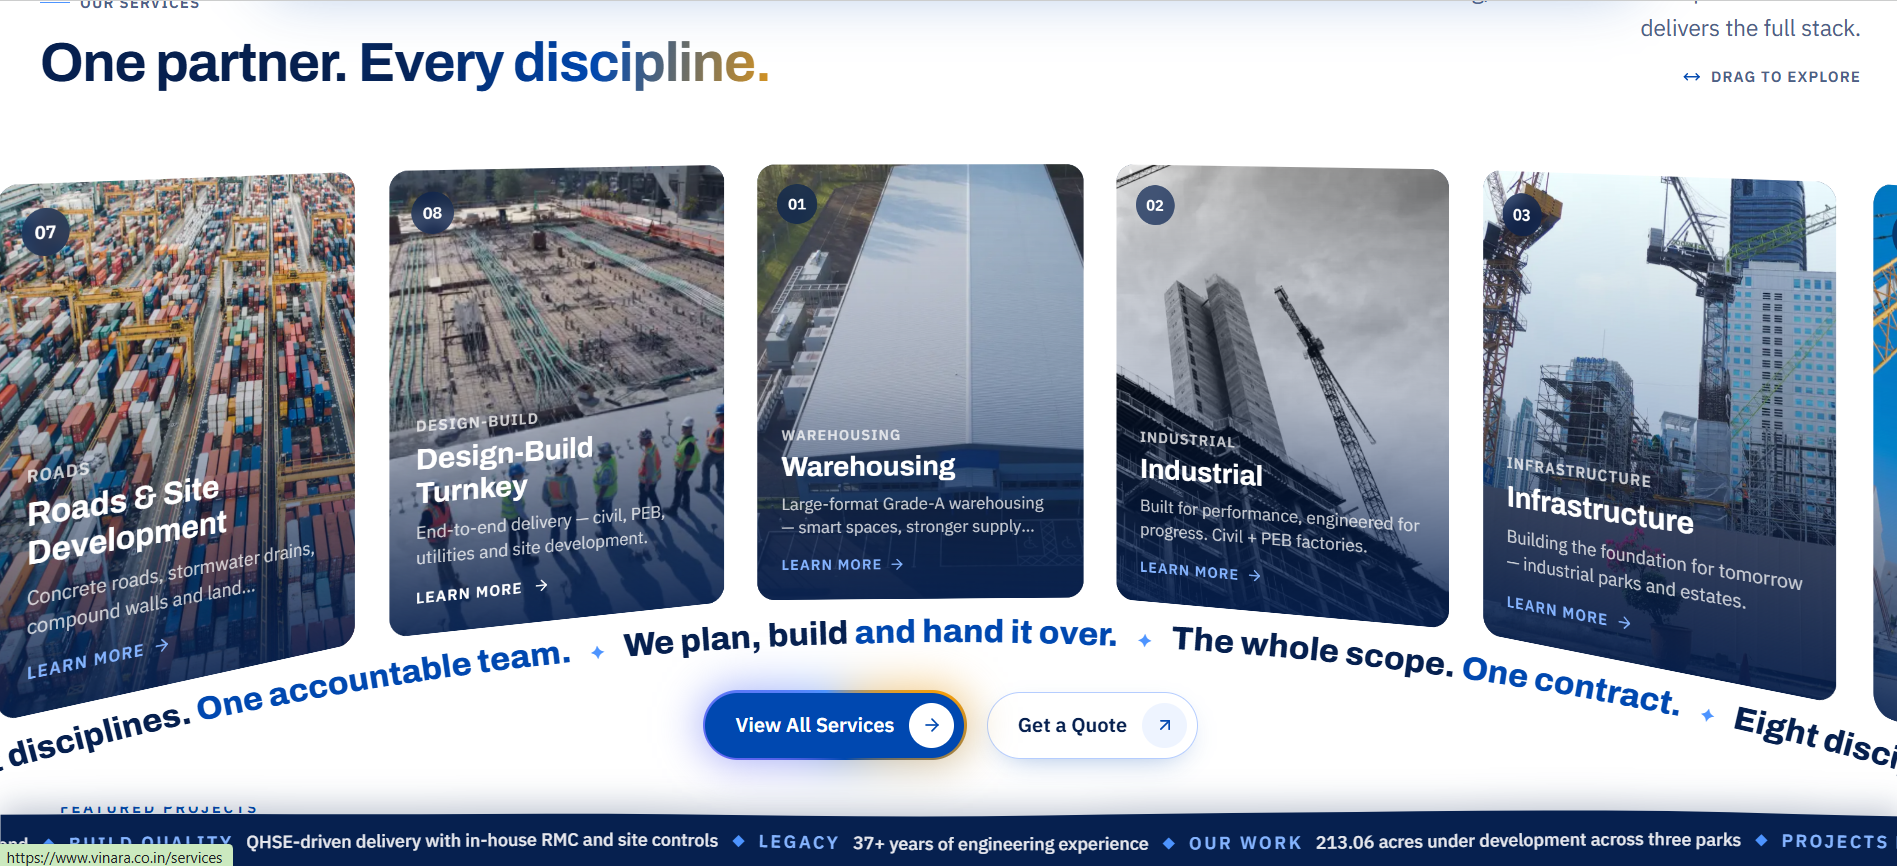
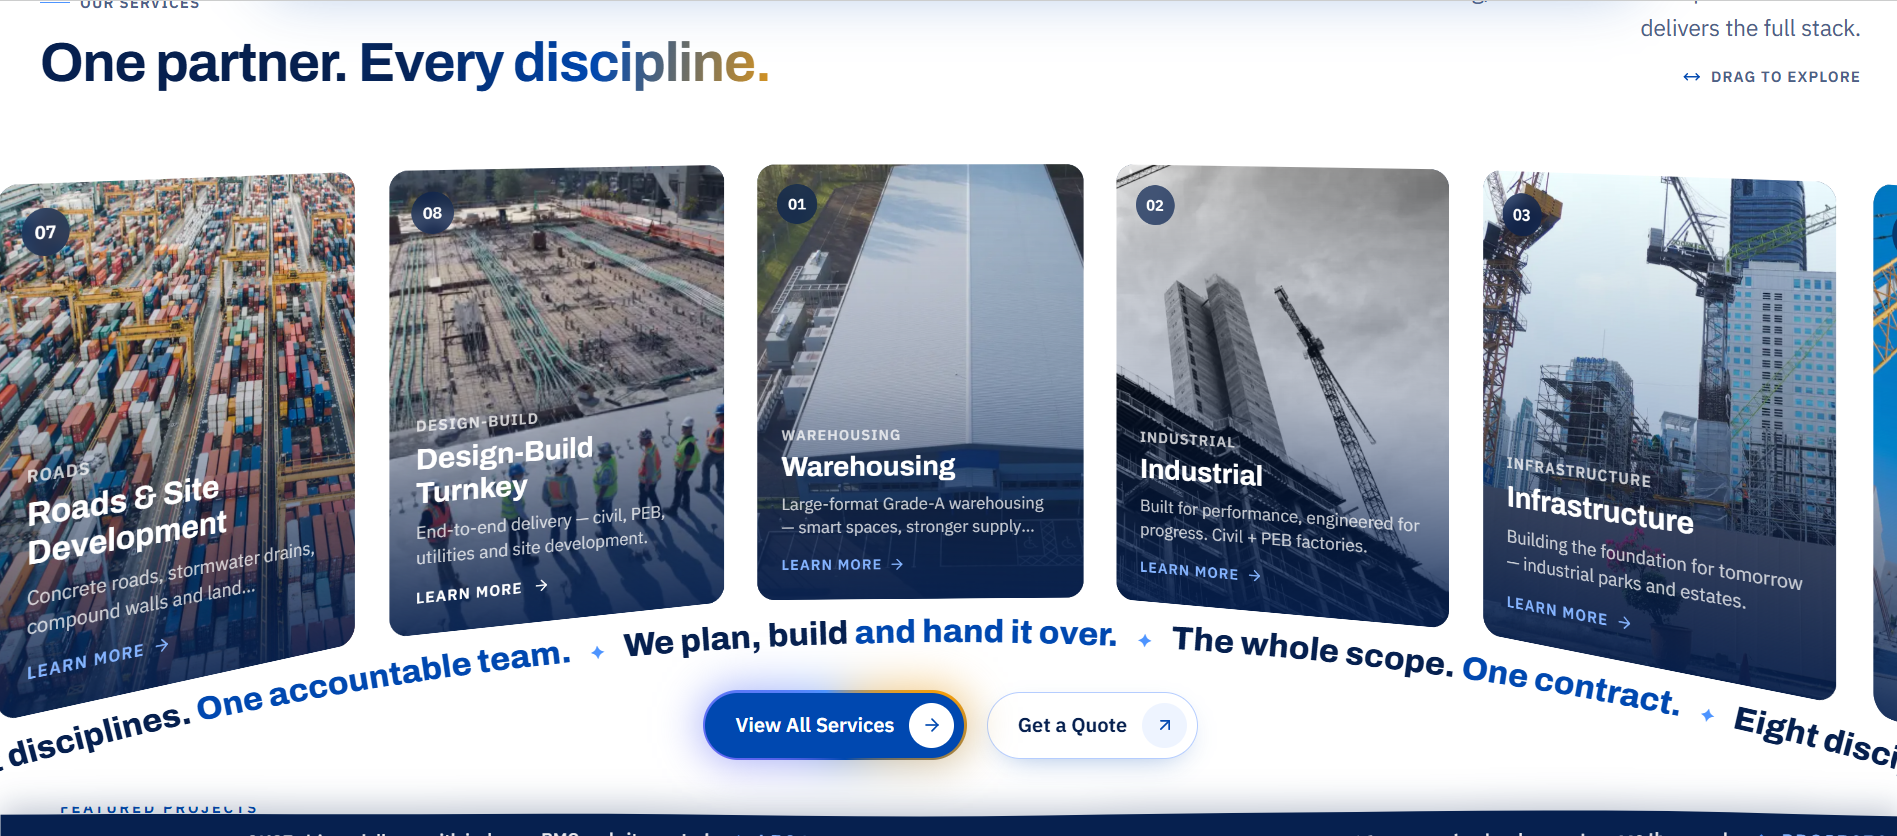
Remove website links and crop URL bar from screenshot

diff --git a/README.md b/README.md
@@ -4,8 +4,6 @@ Screens and the prompts used to build the official website of **Vinara Infra LLP
 
 > This repo is a showcase only. **It contains no source code.** The website was built with AI-assisted development (Claude Code) by giving it prompts like the ones below, one step at a time.
 
-**Live site:** https://www.vinara.co.in
-
 **Tech used:** Next.js 15 · React 19 · Tailwind CSS 4 · GSAP · Motion · Lenis smooth scroll · Three.js / React Three Fiber · Neon Postgres · Resend email
 
 ---
@@ -62,7 +60,7 @@ Screens and the prompts used to build the official website of **Vinara Infra LLP
 ## Other features (prompts)
 
 - **Admin panel:** "Add an admin panel to manage gallery photos, projects, partners and leadership content without touching code."
-- **Careers and quotes:** "Send job applications and quote enquiries by email with Resend to info@vinara.co.in."
+- **Careers and quotes:** "Send job applications and quote enquiries by email with Resend to the company inbox."
 - **Mobile:** "Fix the mobile menu and keep the navigation actions visible on small screens."
 - **Branding:** "Replace the default favicon with the Vinara logo mark."
 
